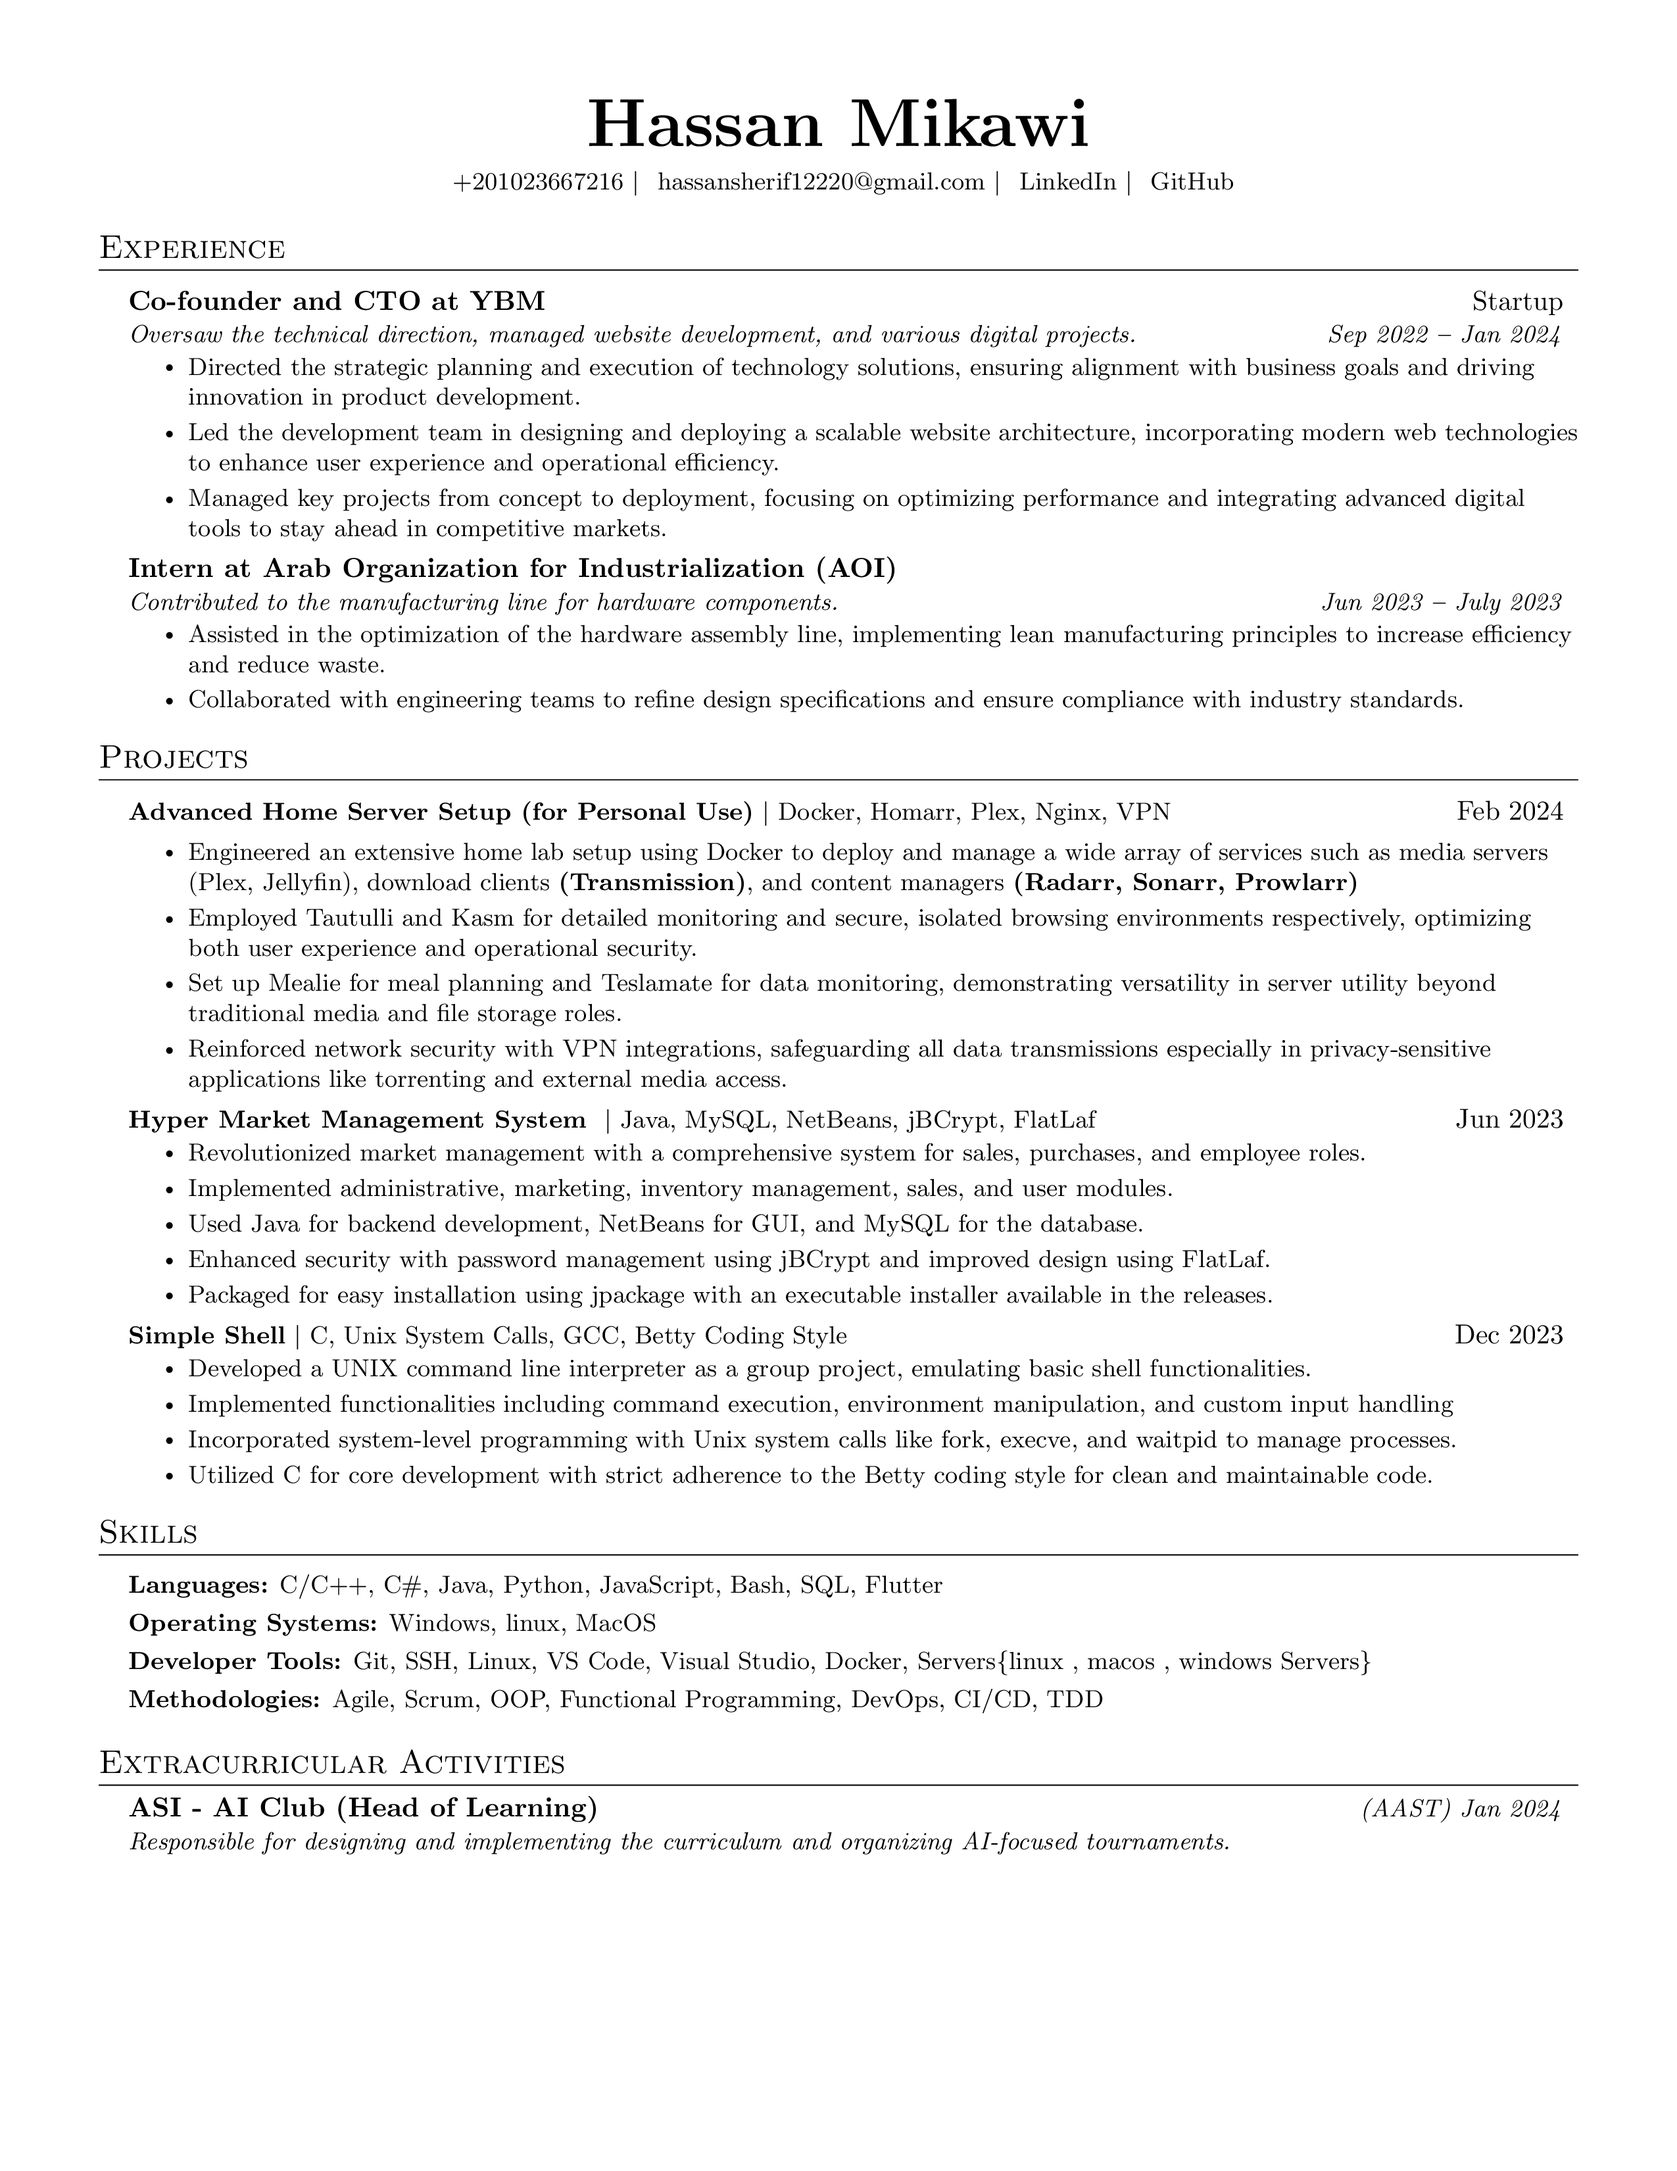
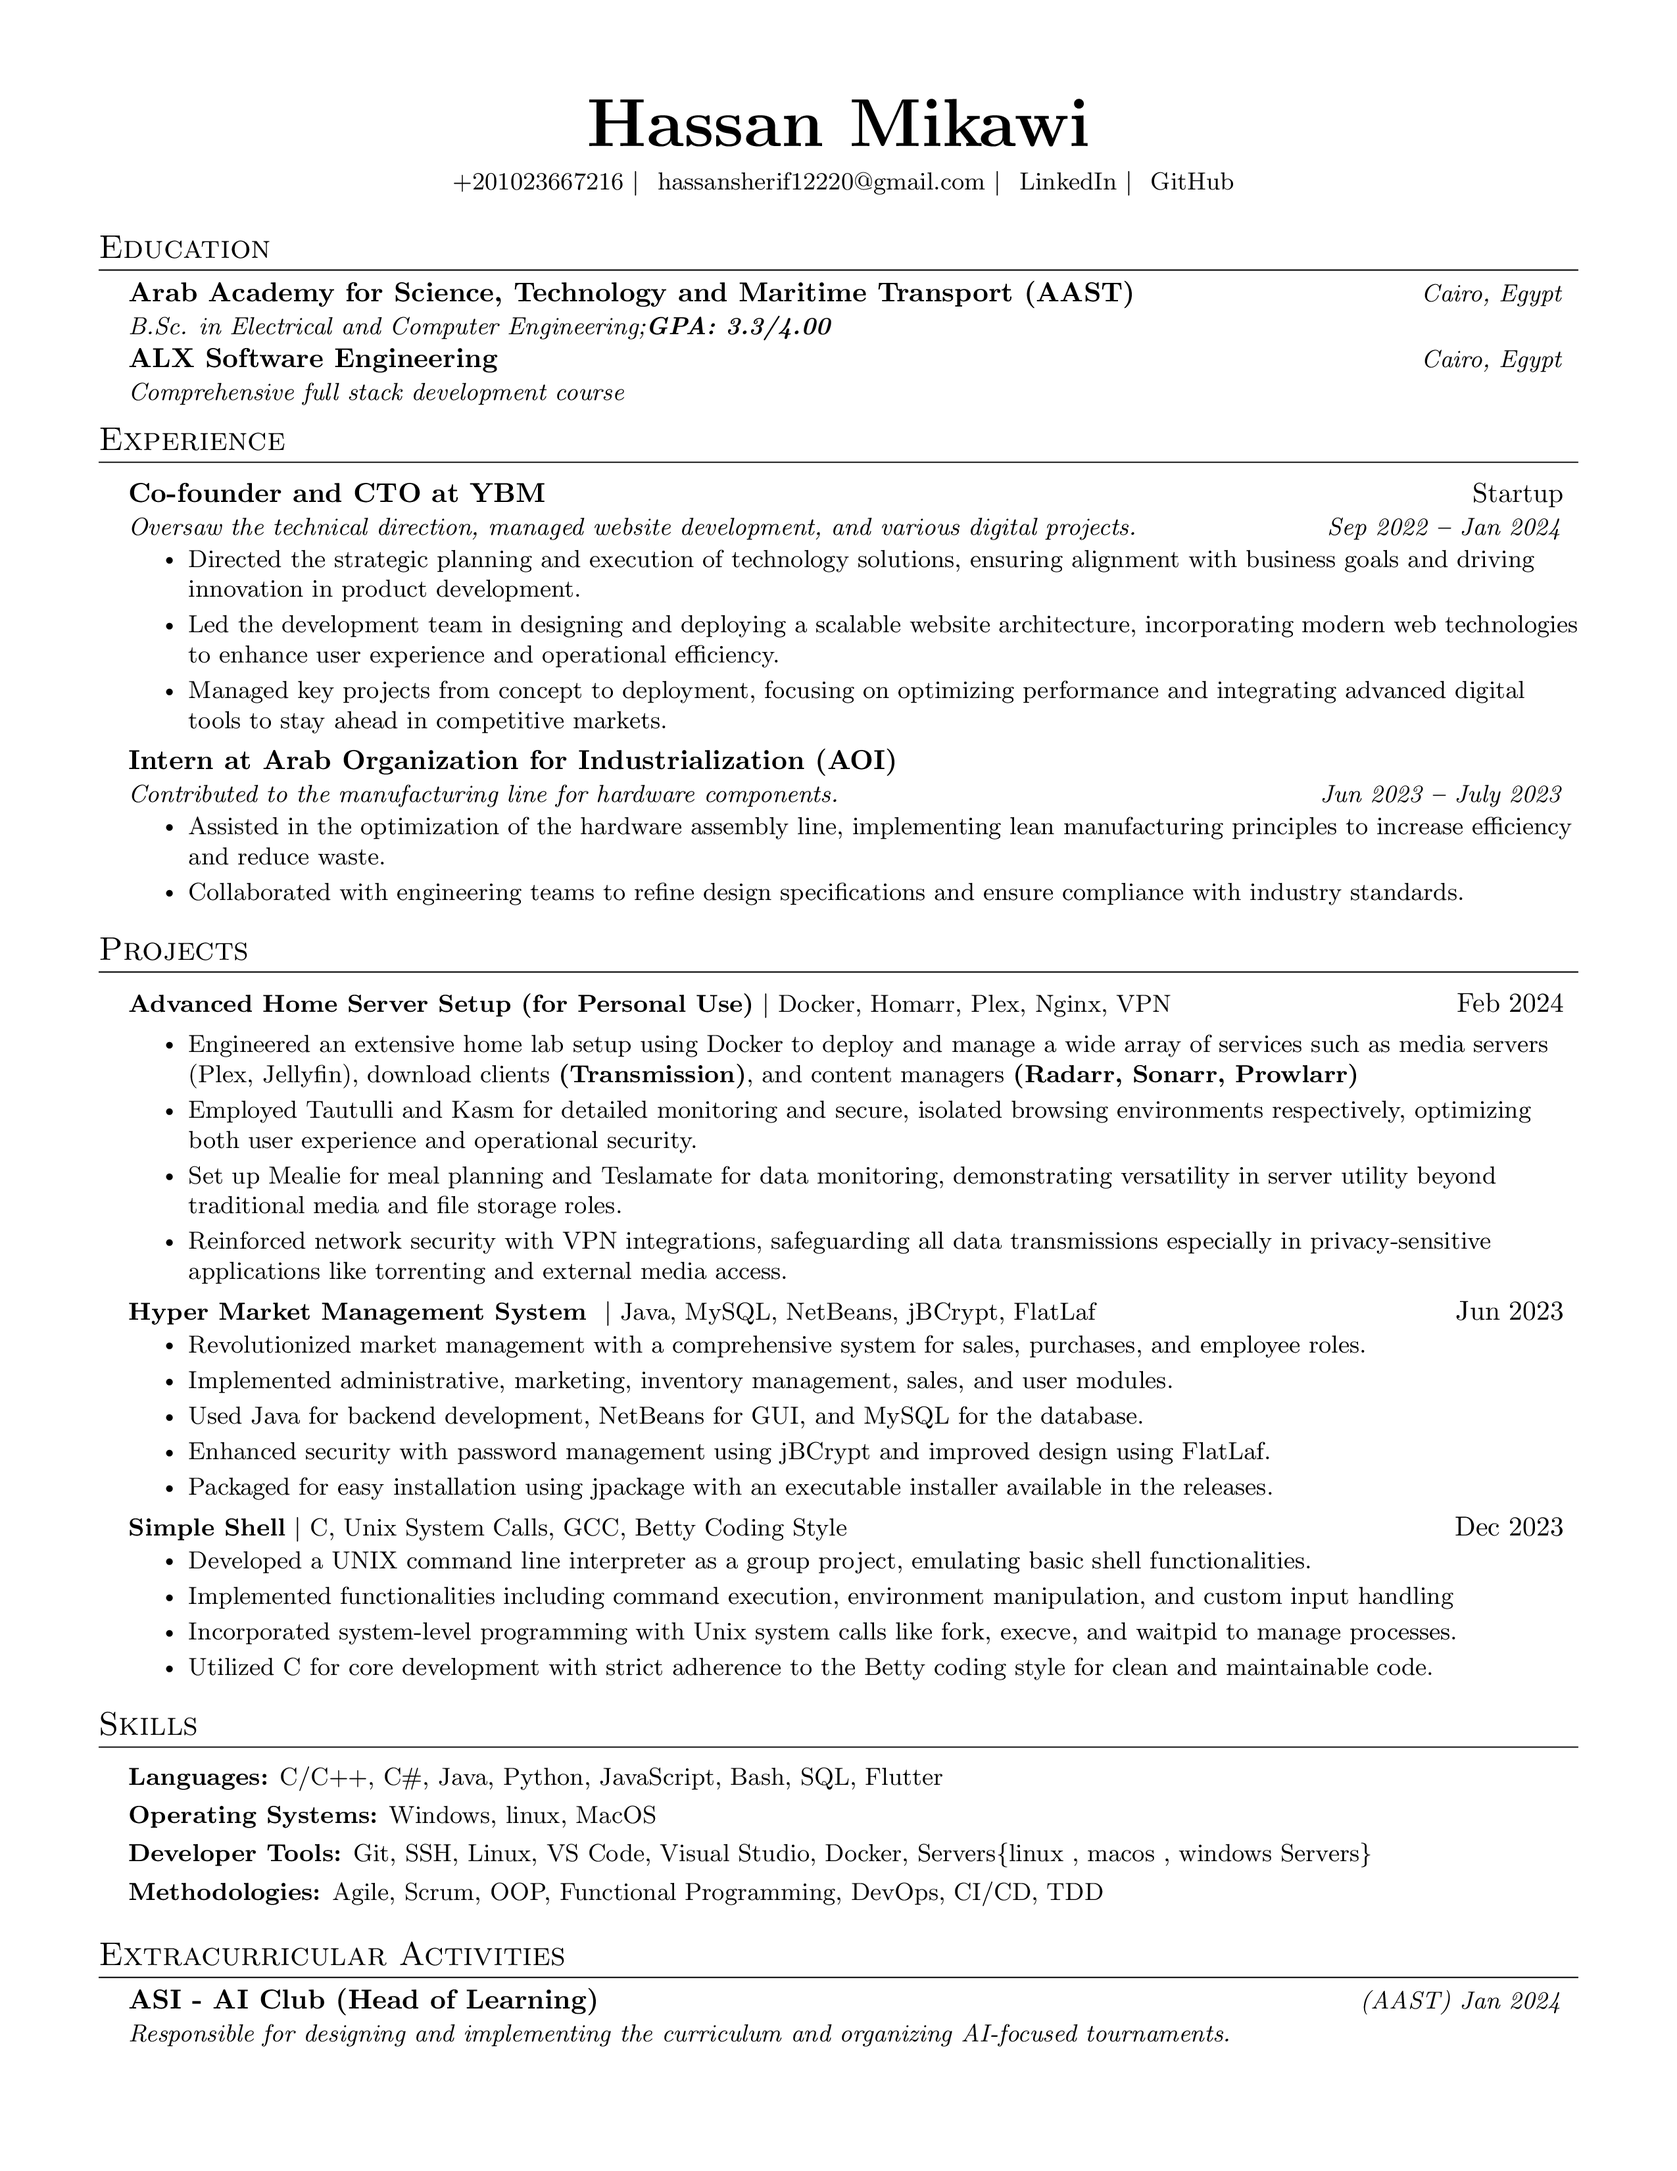
Update CV

diff --git a/mikawi_CV.tex b/mikawi_CV.tex
@@ -167,18 +167,18 @@
   % \resumeSubHeadingListEnd
 
 
-% \section{Education}
-%   \resumeSubHeadingListStart
+\section{Education}
+  \resumeSubHeadingListStart
     
-%     \resumeOrganizationHeading
-%       {\href{https://aast.edu/en/index.php?from=edurank.org}{Arab Academy for Science, Technology and Maritime Transport (AAST)}}{Cairo, Egypt}
-%       {B.Sc. in Electrical and Computer Engineering;\textbf{GPA: 3.3/4.00}}{Oct 2020 \textbf{--} July 2025}
+    \resumeOrganizationHeading
+      {\href{https://aast.edu/en/index.php?from=edurank.org}{Arab Academy for Science, Technology and Maritime Transport (AAST)}}{Cairo, Egypt}
+      {B.Sc. in Electrical and Computer Engineering;\textbf{GPA: 3.3/4.00}}{Oct 2020 \textbf{--} July 2025}
       
-%     \resumeOrganizationHeading
-%     {\href{https://tech.alxafrica.com/hubfs/ALX-Software-Engineering-Curriculum.pdf?hsLang=en}{ALX Software Engineering}}{Cairo, Egypt}
-%     {Comprehensive full stack development course}{Apr 2023 \textbf{--} May 2024}
+    \resumeOrganizationHeading
+    {\href{https://tech.alxafrica.com/hubfs/ALX-Software-Engineering-Curriculum.pdf?hsLang=en}{ALX Software Engineering}}{Cairo, Egypt}
+    {Comprehensive full stack development course}{Apr 2023 \textbf{--} May 2024}
     
-%   \resumeSubHeadingListEnd
+  \resumeSubHeadingListEnd
 
 % %----------- EXPERIENCE -----------
 
